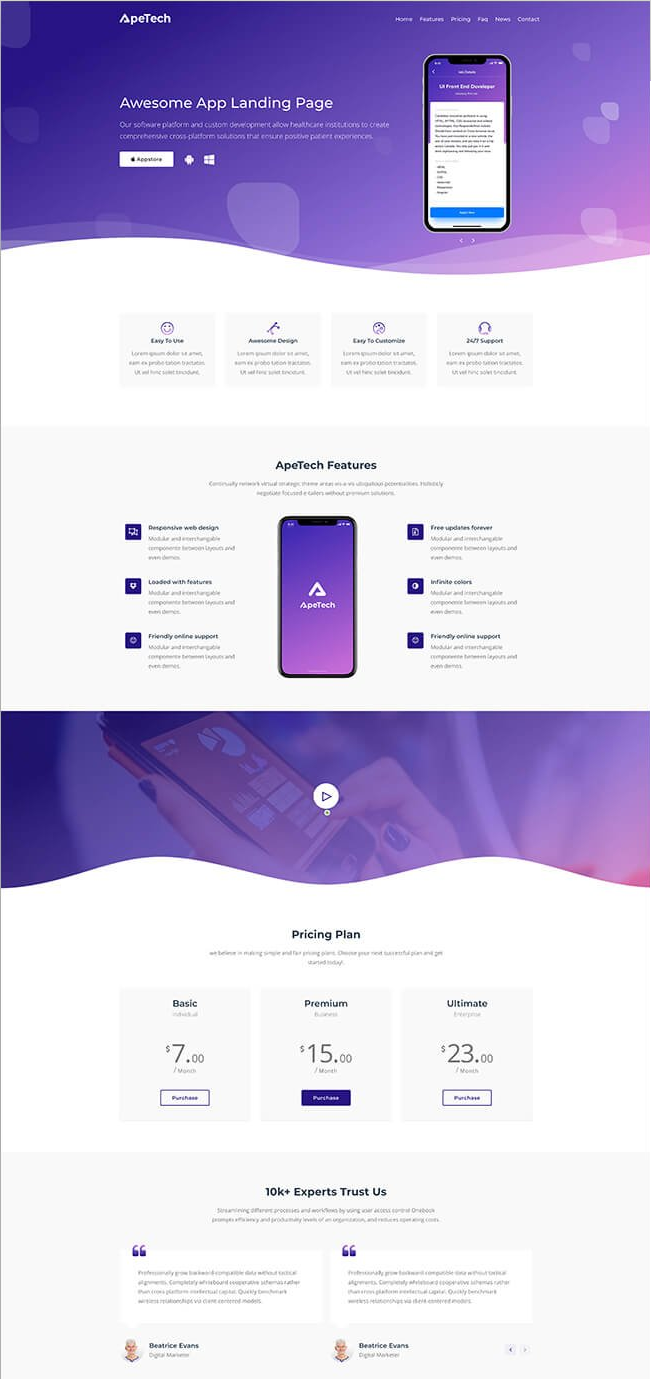
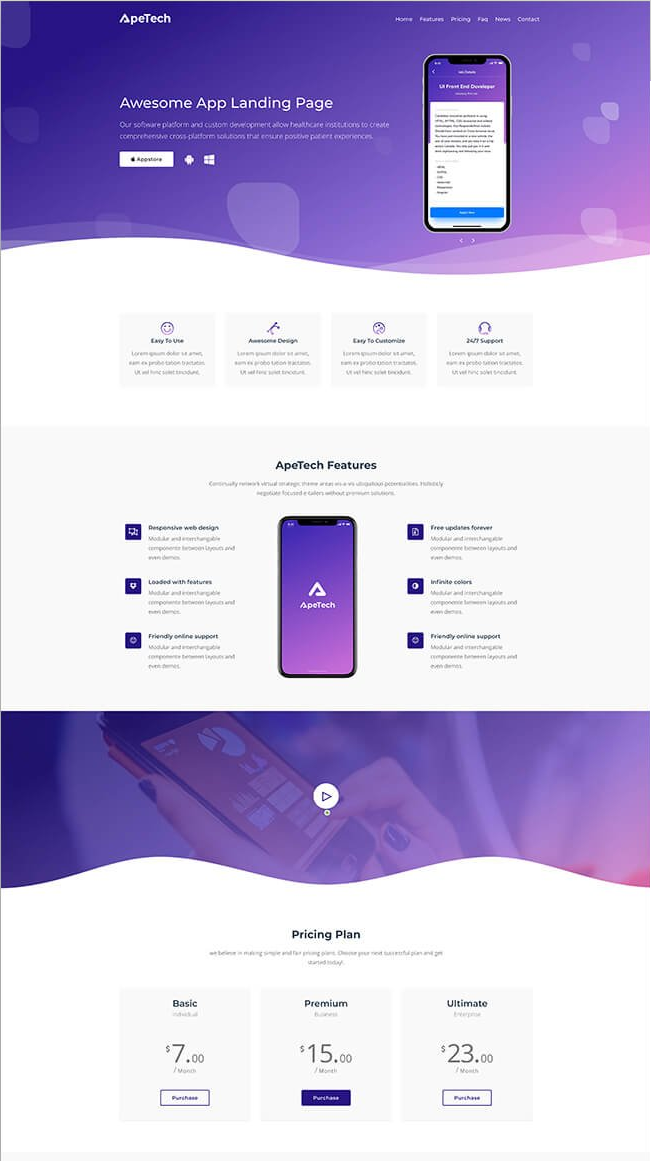
updating portfolio to kuclar

diff --git a/src/components/Footer/Footer.js b/src/components/Footer/Footer.js
@@ -8,14 +8,18 @@ const Footer = () => {
   return (
     <FooterWrapper>
       <LinkList>
+      <LinkColumn>
+          <LinkTitle>Name</LinkTitle>
+          <LinkItem href="Muhamed Kuclar">Muhamed Kuclar</LinkItem>
+        </LinkColumn>
         <LinkColumn>
           <LinkTitle>Call</LinkTitle>
-          <LinkItem href="tel:060-3586-785">060-3586-785</LinkItem>
+          <LinkItem href="tel:+383 44340476">+383 44340476</LinkItem>
         </LinkColumn>
         <LinkColumn>
           <LinkTitle>Email</LinkTitle>
-          <LinkItem href="mailto:contact@jsmastery.com">
-            mahmica@gmail.com
+          <LinkItem href="mailto:kuclarmuhamed@gmail.com">
+          kuclarmuhamed@gmail.com
           </LinkItem>
         </LinkColumn>
       </LinkList>
@@ -24,13 +28,13 @@ const Footer = () => {
           <Slogan>Innovating one project at a time</Slogan>
         </CompanyContainer>
         <SocialContainer>
-          <SocialIcons href="https://github.com/Ado2211">
+          <SocialIcons href="">
             <AiFillGithub size="3rem" />
           </SocialIcons>
-          <SocialIcons href="https://www.linkedin.com/in/adnan-mahmi%C4%87-74831022a/">
+          <SocialIcons href="https://www.linkedin.com/in/muhamed-ku%C4%8Dlar-209a0b237/">
             <AiFillLinkedin size="3rem" />
           </SocialIcons>
-          <SocialIcons href="https://www.facebook.com/adnan.mahmic2/">
+          <SocialIcons href="">
             <AiFillFacebook size="3rem" />
           </SocialIcons>
         </SocialContainer>

diff --git a/src/components/Header/Header.js b/src/components/Header/Header.js
@@ -29,16 +29,21 @@ const Header = () =>  (
         <Link id='about' href="#about">
           <NavLink>About</NavLink>
         </Link>
-      </li>        
+      </li>   
+      <li>
+        <Link id='footer' href="#footer">
+          <NavLink>Contact</NavLink>
+        </Link>
+      </li>      
     </Div2>
       <Div3>
-        <SocialIcons href="https://github.com/Ado2211">
+        <SocialIcons href=""> 
           <AiFillGithub size="3rem" />
         </SocialIcons>
-        <SocialIcons href="https://www.linkedin.com/in/adnan-mahmi%C4%87-74831022a/">
+        <SocialIcons href="https://www.linkedin.com/in/muhamed-ku%C4%8Dlar-209a0b237/">
           <AiFillLinkedin size="3rem" />
         </SocialIcons>
-        <SocialIcons href="https://www.facebook.com/adnan.mahmic2/">
+        <SocialIcons href="">
           <AiFillFacebook size="3rem"/>
         </SocialIcons>
       </Div3>

diff --git a/src/constants/constants.js b/src/constants/constants.js
@@ -38,10 +38,19 @@ export const projects = [
   {
     title: 'Demo page',
     description: "Using HTML, CSS created beatiful demo page.",
-      image: '/images/demoPage.png',
+      image: '/images/demoPage1.png',
       tags: ['HTML', 'CSS',],
     source: 'https://github.com/Ado2211/My_web_page',
     visit: 'https://github.com/Ado2211/My_web_page',
+    id: 4,
+  },
+  {
+    title: 'Restaurant web-app',
+    description: "Using React, CSS created beatiful restaurant page.",
+      image: '/images/Untitled.jpg',
+      tags: ['React', 'CSS',],
+    source: '',
+    visit: '',
     id: 4,
   },
 

diff --git a/src/components/Footer/FooterStyles.js b/src/components/Footer/FooterStyles.js
@@ -104,7 +104,7 @@ export const Slogan = styled.p`
 export const SocialContainer = styled.div`
 	display: flex;
   align-items: center;
-
+  
 	@media ${props => props.theme.breakpoints.md}{
 		justify-content: center;
 		padding-right: 16px;
@@ -157,3 +157,5 @@ export const LinkTitle = styled.h4`
 		margin-bottom: 8px;
 	}
 `
+
+

diff --git a/src/components/Acomplishments/Acomplishments.js b/src/components/Acomplishments/Acomplishments.js
@@ -11,7 +11,7 @@ const data = [
 ];
 
 const Acomplishments = () => (
-  <Section>
+  <Section id="footer">
     <SectionTitle>Personal Achievements</SectionTitle>
     <Boxes>
       {data.map((card, index) => (

diff --git a/src/components/Header/HeaderStyles.js b/src/components/Header/HeaderStyles.js
@@ -105,6 +105,7 @@ export const NavProductsIcon = styled(IoIosArrowDropdown)`
 // Social Icons 
 
 export const SocialIcons = styled.a`
+margin-left:30px;
 transition: 0.3s ease;
 color: white;
 &:hover {
